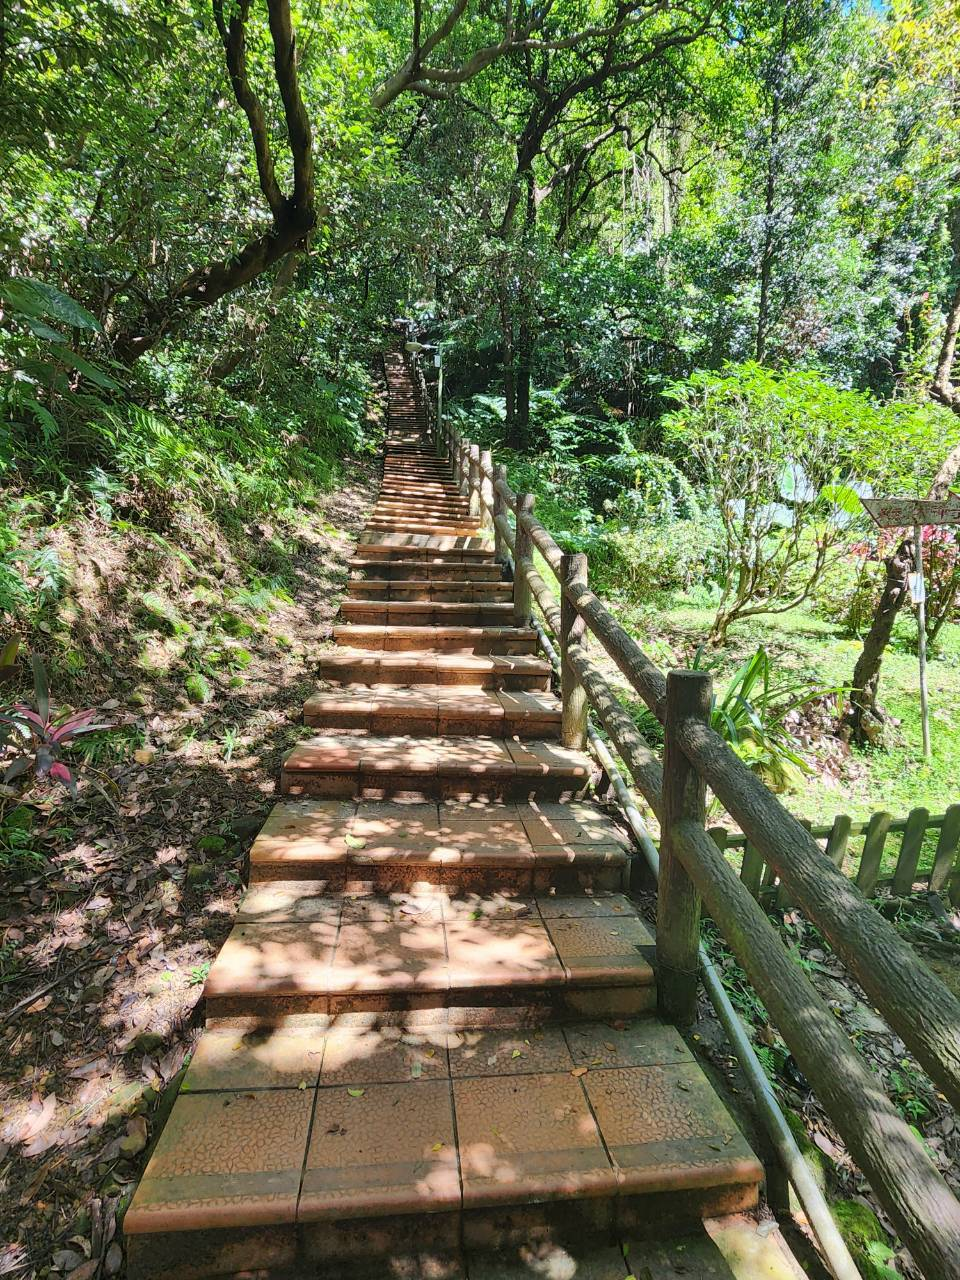
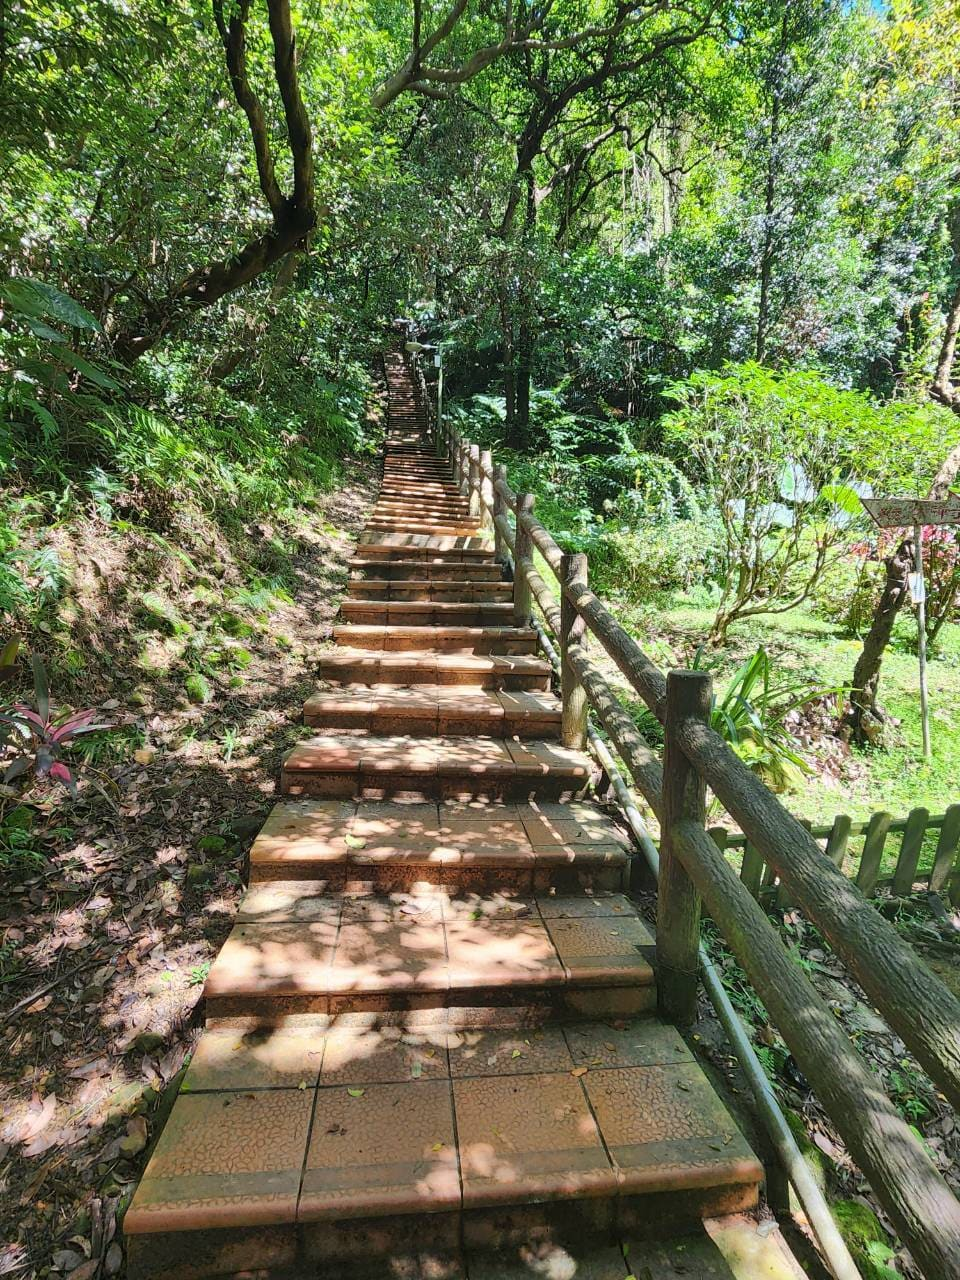
Add all-stations-complete celebration popup, compress oversized photos
Several station photos were uploaded straight from a phone camera (up to
4000x3000px, 9.5MB each), which was the main cause of slow image loading.
Resized to a 1600px max dimension and recompressed (JPEG q78 / PNG q80),
cutting total image weight from ~74MB to ~13.5MB with no visible quality
loss. Filenames/paths unchanged, so no other references needed updating.

diff --git a/styles.css b/styles.css
@@ -335,6 +335,20 @@
   .modal p { color: var(--sub); font-size: 14px; margin: 0 0 18px; }
   .modal .code-box { background: var(--bg); border: 2px solid var(--ink); border-radius: 12px; padding: 12px; font-size: 20px; font-weight: 800; letter-spacing: 2px; margin-bottom: 18px; color: var(--accent-dark); }
 
+  .finale-modal { max-width: 320px; }
+  .finale-badge {
+    display: inline-block; background: var(--purple); color: #fff;
+    font-family: "Baloo 2", "Noto Sans TC", sans-serif; font-weight: 800; font-size: 12px;
+    letter-spacing: 0.5px; padding: 6px 14px; border-radius: 999px; margin-bottom: 12px;
+    border: 3px solid var(--ink); box-shadow: 3px 3px 0 var(--ink);
+  }
+  .finale-modal p { white-space: pre-line; }
+  .finale-modal button {
+    width: 100%; padding: 13px; font-size: 14px; font-weight: 800; font-family: "Baloo 2", "Noto Sans TC", sans-serif;
+    border: 3px solid var(--ink); border-radius: 12px; box-shadow: 3px 3px 0 var(--ink);
+    background: var(--accent); color: white; cursor: pointer; margin-top: 4px;
+  }
+
   .footer-link { text-align: center; margin-top: 20px; }
   .footer-link a { color: var(--sub); font-size: 12px; cursor: pointer; text-decoration: underline; }
 

diff --git a/app.js b/app.js
@@ -1696,6 +1696,23 @@ function exitRpgToMap() {
 // 完成站點後直接回地圖；地圖上的獎章餘額會自己反映出剛拿到的獎章
 function afterStationComplete() {
   goToMap();
+  checkFinale();
+}
+
+// 十站全部完成時彈出一次恭喜畫面；用序號記住「已經看過」，避免玩家之後每次回地圖都被彈一次
+function checkFinale() {
+  if (completedCount() < STATIONS.length) return;
+  const key = "yingge_finale_shown_" + state.code;
+  if (localStorage.getItem(key)) return;
+  localStorage.setItem(key, "1");
+  document.getElementById("finale-title").textContent = `恭喜「${state.name || ""}」成功闖完所有關卡！`;
+  document.getElementById("finale-text").textContent =
+    "你已完成所有探索，\n也發現了藏在鶯歌各處的故事。\n恭喜完成這趟鶯歌探索之旅！";
+  document.getElementById("finale-overlay").classList.add("active");
+}
+
+function closeFinaleOverlay() {
+  document.getElementById("finale-overlay").classList.remove("active");
 }
 
 // stay logged in across page refreshes (until the 15-minute idle timeout above):

diff --git a/index.html b/index.html
@@ -346,6 +346,17 @@
   <div id="shop-overlay-card"></div>
 </div>
 
+<!-- FINALE OVERLAY (shown once when all stations are completed) -->
+<div class="overlay" id="finale-overlay" onclick="if(event.target===this) closeFinaleOverlay()">
+  <div class="modal finale-modal">
+    <div class="finale-badge">全破關</div>
+    <div class="emoji">🎉</div>
+    <h3 id="finale-title"></h3>
+    <p id="finale-text"></p>
+    <button onclick="closeFinaleOverlay()">太棒了！</button>
+  </div>
+</div>
+
 <script src="https://unpkg.com/leaflet@1.9.4/dist/leaflet.js"></script>
 <script src="stations.js"></script>
 <script src="app.js"></script>
